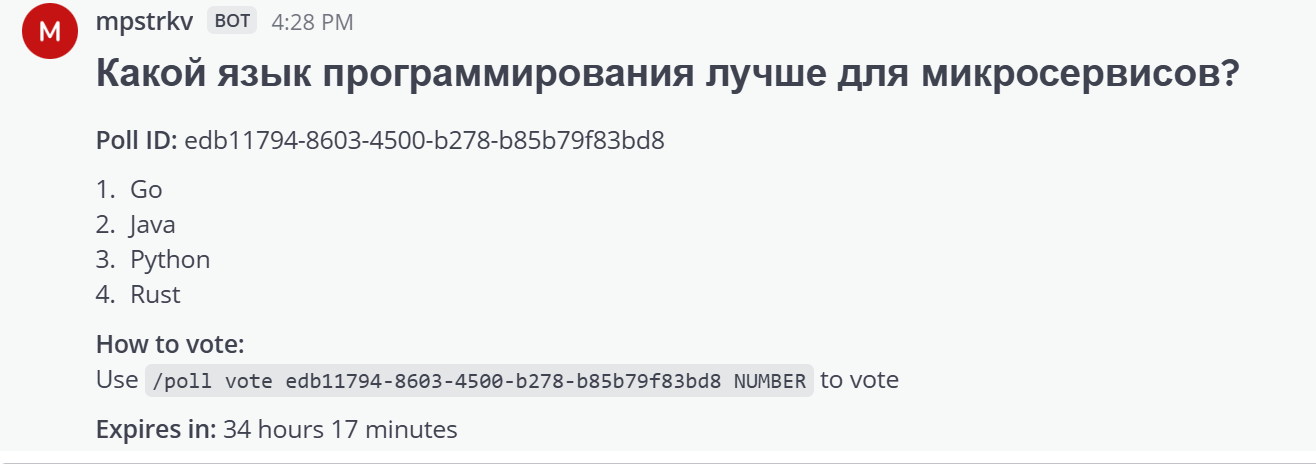
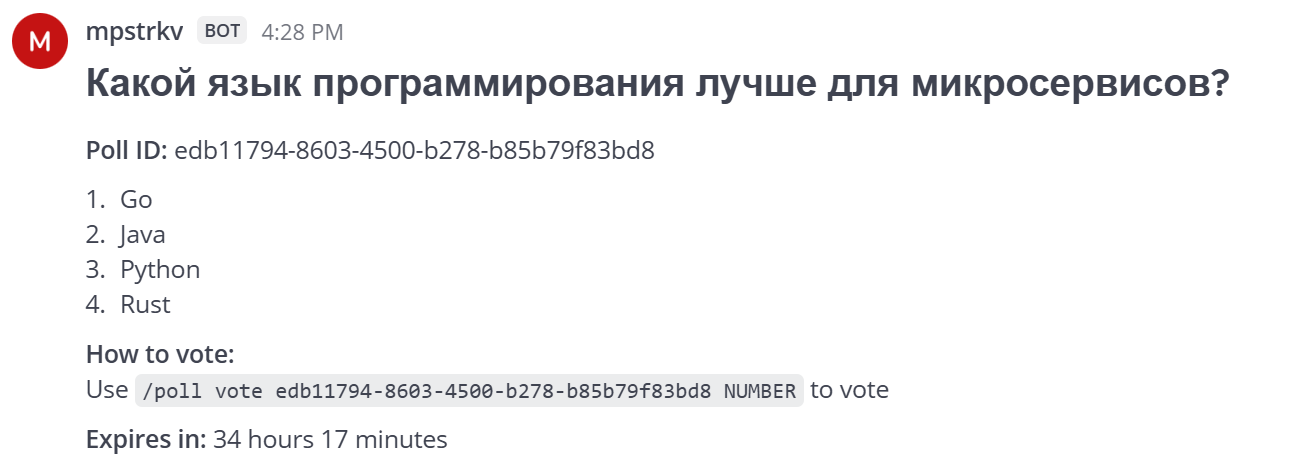
chore: update readme.md

diff --git a/readme.md b/readme.md
@@ -114,7 +114,7 @@ make dev
 ```
 
 Вывод:
-![img.png](img/img.png)
+<img src="img/img.png" width="400">
 
 ### Голосование
 Команда:
@@ -123,7 +123,7 @@ make dev
 ```
 
 Вывод (виден только проголосовавшему):
-![img_1.png](img/img_1.png)
+<img src="img/img_1.png" width="300">
 
 ### Просмотр результатов
 Команда:
@@ -132,7 +132,7 @@ make dev
 ```
 
 Вывод (для автора голосования - виден всем, для участника - только проголосовавшему:
-![img_2.png](img/img_2.png)
+<img src="img/img_2.png" width="400">
 
 ### Завершение голосования
 Команда:
@@ -141,7 +141,7 @@ make dev
 ```
 
 Вывод:
-![img_3.png](img/img_3.png)
+<img src="img/img_3.png" width="400">
 
 ### Информация о голосовании
 Команда:
@@ -150,7 +150,7 @@ make dev
 ```
 
 Вывод (только запросившему):
-![img_4.png](img/img_4.png)
+<img src="img/img_4.png" width="400">
 
 ### Удаление голосования
 Команда:
@@ -159,8 +159,8 @@ make dev
 ```
 
 Вывод (виден только создателю):
-![img_5.png](img/img_5.png)
-![img_6.png](img/img_6.png)
+<img src="img/img_5.png" width="400"><br>
+<img src="img/img_6.png" width="400">
 
 ### Справка по командам
 Команда:
